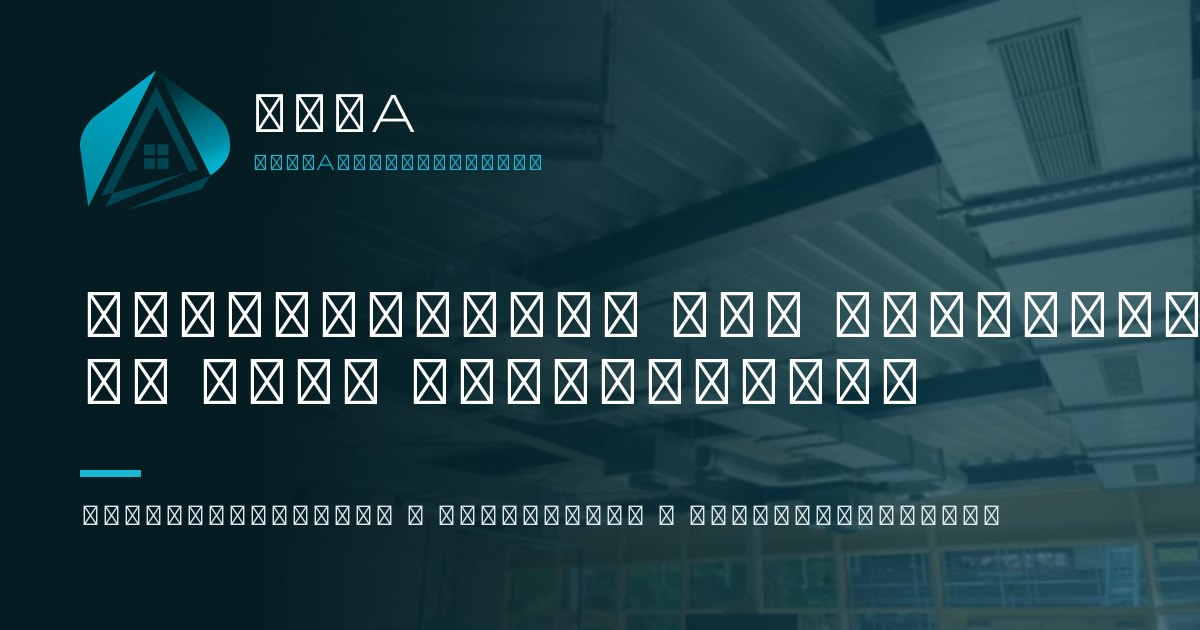
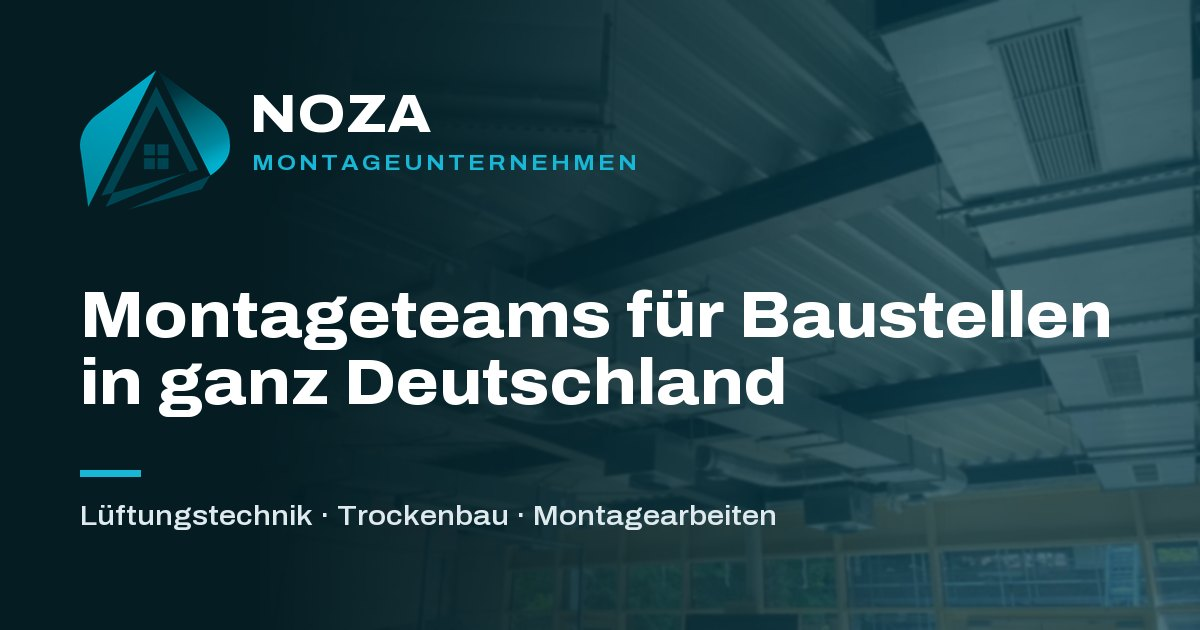
Web NOZA 2026-11-26 19:24 (5 súborov)

diff --git a/web/de/index.html b/web/de/index.html
@@ -16,7 +16,7 @@
 <meta property="og:title" content="NOZA – Montageteams für Baustellen in ganz Deutschland">
 <meta property="og:description" content="Lüftungstechnik, Trockenbau und Montagearbeiten. Eigene Leute, eigenes Werkzeug, ein Ansprechpartner für alles.">
 <meta property="og:url" content="https://www.noza.sk/de/">
-<meta property="og:image" content="https://www.noza.sk/img/og-de.jpg">
+<meta property="og:image" content="https://www.noza.sk/img/og-de.jpg?v=2">
 <meta name="twitter:card" content="summary_large_image">
 <meta name="theme-color" content="#063947">
 <link rel="icon" href="../img/favicon-32.png" sizes="32x32" type="image/png">

diff --git a/web/sk/index.html b/web/sk/index.html
@@ -16,7 +16,7 @@
 <meta property="og:title" content="NOZA — montážne tímy pre stavby po celom Nemecku">
 <meta property="og:description" content="Vzduchotechnika, sadrokartón a montážne práce. Vlastní ľudia, vlastné náradie, jeden kontakt na všetko.">
 <meta property="og:url" content="https://www.noza.sk/sk/">
-<meta property="og:image" content="https://www.noza.sk/img/og-sk.jpg">
+<meta property="og:image" content="https://www.noza.sk/img/og-sk.jpg?v=2">
 <meta name="twitter:card" content="summary_large_image">
 <meta name="theme-color" content="#063947">
 <link rel="icon" href="../img/favicon-32.png" sizes="32x32" type="image/png">

diff --git a/nastroje/og_obrazok.py b/nastroje/og_obrazok.py
@@ -1,14 +1,22 @@
 """Vyrobí obrázky na zdieľanie (og:image 1200×630) pre SK aj DE: web/img/og-sk.jpg, web/img/og-de.jpg.
 Podklad je hero fotka stmavená do petrolovej, vľavo logo a titulok. Spustenie: python nastroje/og_obrazok.py
 Značka je len „NOZA“ (klient má viac s. r. o. s Noza v názve, konkrétna firma je len v pätičke webu).
+
+Písmo (oprava 26.11.2026): Archivo je na webe rozdelené na dve podmnožiny – archivo-latin.woff2 (a–z, á, é, ä, ü, ·)
+a archivo-latin-ext.woff2 (č, š, ž, ľ, ť, ň …). Prehliadač si podľa unicode-range vyberie sám, PIL nie – preto sa tu
+písmo vyberá pre každý znak zvlášť. Do 26.11. sa bralo len latin-ext a všetky bežné písmená boli prázdne štvorčeky.
+Osi variabilného písma sú v poradí Weight, Width – nastavujú sa podľa mena, nie podľa poradia.
 """
 import os
 from PIL import Image, ImageDraw, ImageFilter, ImageFont
 
 KDE = os.path.dirname(os.path.dirname(os.path.abspath(__file__)))
 IMG = os.path.join(KDE, "web", "img")
-FONT = os.path.join(KDE, "web", "fonts", "archivo-latin-ext.woff2")  # variabilný font, PIL ho vie čítať
+FONTY = [os.path.join(KDE, "web", "fonts", "archivo-latin.woff2"),       # základná latinka, má prednosť
+         os.path.join(KDE, "web", "fonts", "archivo-latin-ext.woff2")]   # slovenské a ďalšie rozšírené znaky
+NAHRADNE = ["/System/Library/Fonts/Supplemental/Arial Bold.ttf", "C:/Windows/Fonts/segoeuib.ttf", "C:/Windows/Fonts/arialbd.ttf"]
 W, H = 1200, 630
+SIRKA = 110  # Width písma Archivo (ako font-stretch nadpisov na webe)
 
 # jazyk: (titulok, podtitulok, riadok pod značkou)
 TEXTY = {
@@ -16,19 +24,71 @@ TEXTY = {
     "de": ("Montageteams für Baustellen\nin ganz Deutschland", "Lüftungstechnik · Trockenbau · Montagearbeiten", "MONTAGEUNTERNEHMEN"),
 }
 
+_fonty, _notdef = {}, {}
 
-def font(velkost):
-    for cesta in (FONT, "C:/Windows/Fonts/segoeuib.ttf", "C:/Windows/Fonts/arialbd.ttf"):
-        try:
-            f = ImageFont.truetype(cesta, velkost)
+
+def fonty(velkost, hrubka):
+    """Obe podmnožiny Archiva v danej veľkosti a hrúbke; keď sa nedajú načítať, jedno náhradné systémové písmo."""
+    kluc = (velkost, hrubka)
+    if kluc not in _fonty:
+        sada = []
+        for cesta in FONTY:
             try:
-                f.set_variation_by_axes([110, 800])  # wdth, wght (ak je font variabilný)
-            except Exception:
-                pass
-            return f
-        except Exception:
-            continue
-    return ImageFont.load_default()
+                f = ImageFont.truetype(cesta, velkost)
+                hodnoty = {"Weight": hrubka, "Width": SIRKA}
+                f.set_variation_by_axes([hodnoty.get(os_["name"].decode() if isinstance(os_["name"], bytes) else os_["name"],
+                                                     os_["default"]) for os_ in f.get_variation_axes()])
+                sada.append(f)
+            except Exception as e:
+                print(f"  ! {os.path.basename(cesta)}: {e}")
+        if not sada:
+            for cesta in NAHRADNE:
+                if os.path.exists(cesta):
+                    sada = [ImageFont.truetype(cesta, velkost)]
+                    break
+        _fonty[kluc] = sada or [ImageFont.load_default()]
+    return _fonty[kluc]
+
+
+def ma_znak(f, znak):
+    """Chýbajúci znak FreeType nakreslí ako .notdef (prázdny obdĺžnik) – porovná sa s ním."""
+    if znak.isspace():
+        return True
+    if f not in _notdef:
+        m = f.getmask("\ue000")  # súkromná oblasť Unicode, v písme nie je nikdy
+        _notdef[f] = (m.size, bytes(m))
+    m = f.getmask(znak)
+    return (m.size, bytes(m)) != _notdef[f]
+
+
+def useky(riadok, sada):
+    """Rozdelí riadok na úseky po sebe idúcich znakov, ktoré má to isté písmo (prvé v sade, ktoré znak má)."""
+    vysledok = []
+    for znak in riadok:
+        f = next((x for x in sada if ma_znak(x, znak)), None)
+        if f is None:
+            print(f"  ! znak {znak!r} nie je v žiadnom písme")
+            f = sada[0]
+        if vysledok and vysledok[-1][0] is f:
+            vysledok[-1][1] += znak
+        else:
+            vysledok.append([f, znak])
+    return vysledok
+
+
+def text(d, xy, retazec, velkost, fill, hrubka=800, riadkovanie=10, rozostup=0):
+    """Ako ImageDraw.multiline_text, ale s výberom písma pre každý znak; rozostup = medzera medzi písmenami v px."""
+    sada = fonty(velkost, hrubka)
+    x0, y = xy
+    vyska_riadku = d.textbbox((0, 0), "A", font=sada[0])[3] + riadkovanie
+    for riadok in retazec.split("\n"):
+        x = x0
+        for f, kus in useky(riadok, sada):
+            for cast in (kus if rozostup else [kus]):
+                d.text((x, y), cast, font=f, fill=fill)
+                x += f.getlength(cast) + rozostup
+        y += vyska_riadku
+    return y
 
 
 def main():
@@ -52,11 +112,11 @@ def main():
         im = podklad.copy()
         d = ImageDraw.Draw(im)
         im.paste(logo, (80, 70), logo)
-        d.text((250, 84), "NOZA", font=font(54), fill=(255, 255, 255))
-        d.text((252, 150), znacka, font=font(22), fill=(25, 183, 214))
-        d.multiline_text((80, 280), titulok, font=font(64), fill=(255, 255, 255), spacing=10)
+        text(d, (250, 84), "NOZA", 54, (255, 255, 255))
+        text(d, (252, 150), znacka, 22, (25, 183, 214), hrubka=700, rozostup=3)
+        text(d, (80, 280), titulok, 64, (255, 255, 255))
         d.rectangle((80, 470, 140, 476), fill=(25, 183, 214))
-        d.text((80, 500), podtitulok, font=font(28), fill=(223, 234, 238))
+        text(d, (80, 500), podtitulok, 28, (223, 234, 238), hrubka=560)
         cesta = os.path.join(IMG, f"og-{jazyk}.jpg")
         im.save(cesta, "JPEG", quality=86, optimize=True)
         print(cesta, os.path.getsize(cesta) // 1024, "kB")
